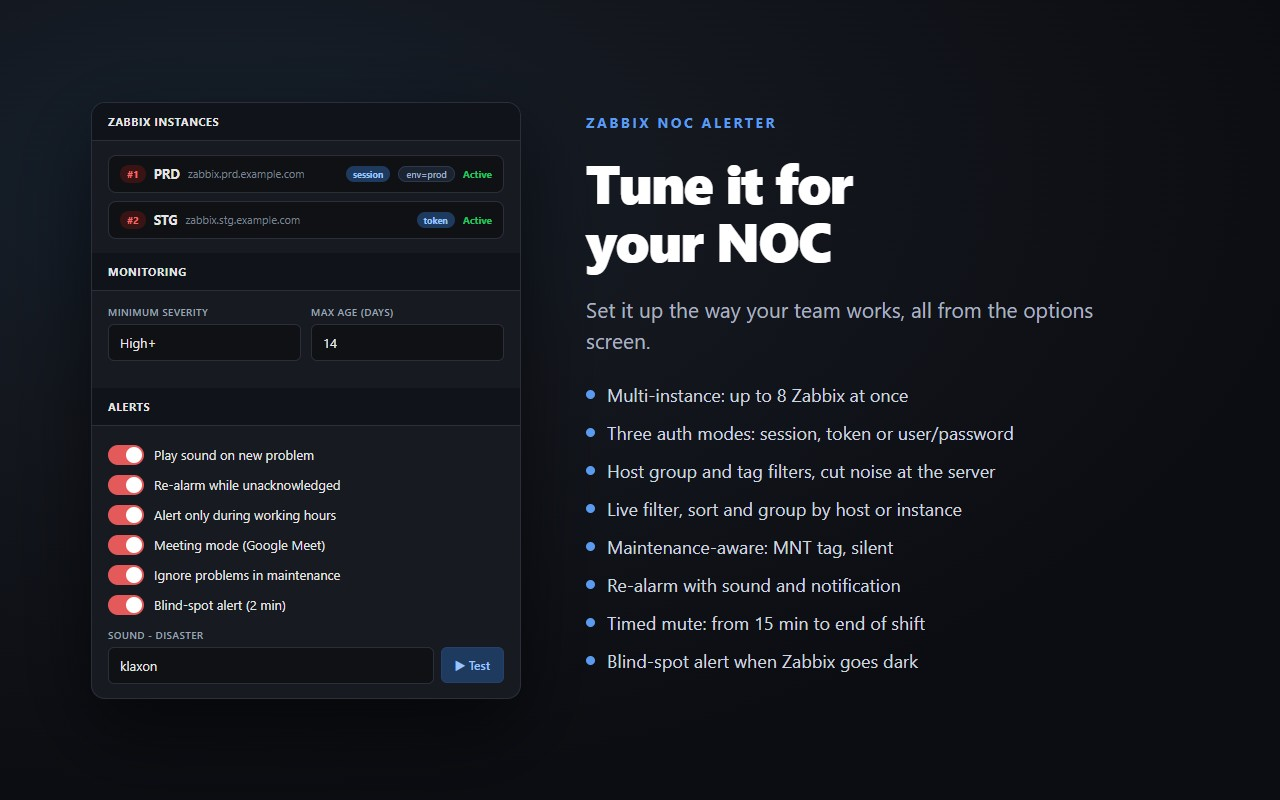
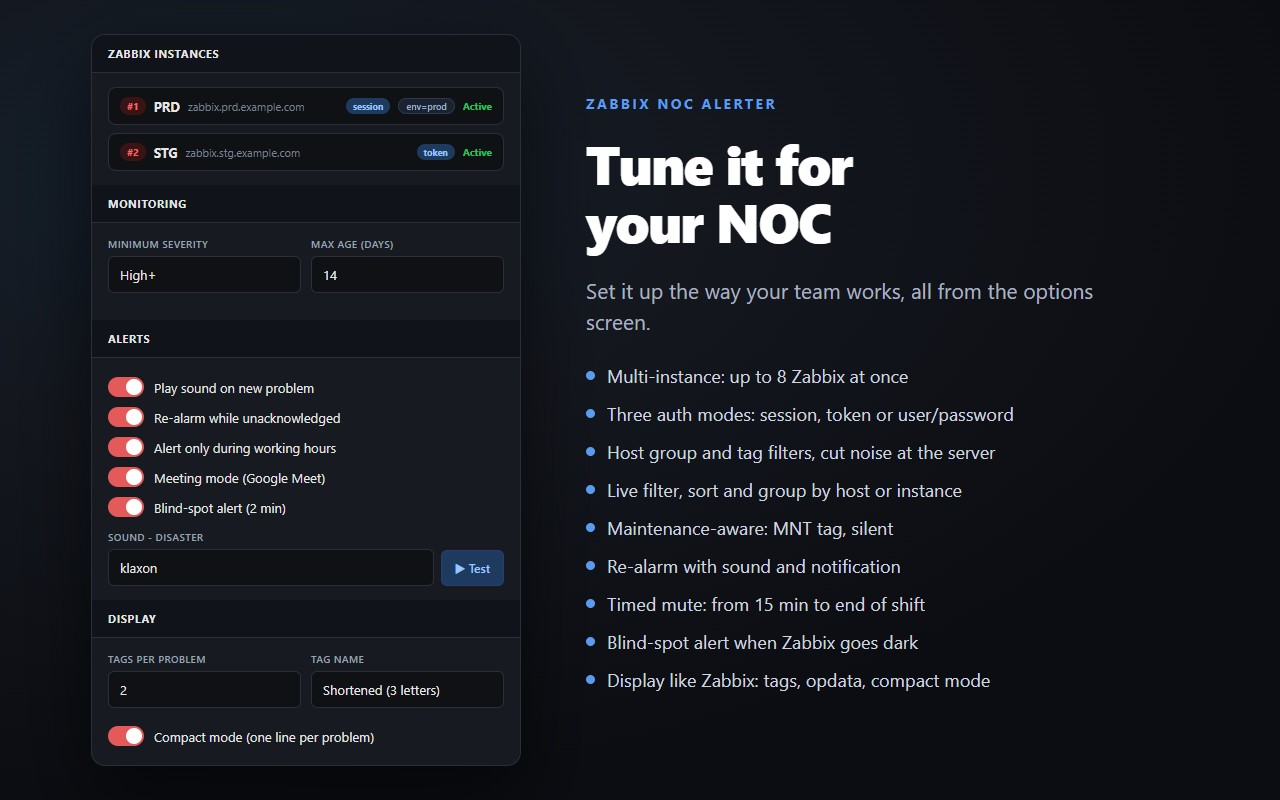
docs: slide 3 das screenshots com a secao Exibicao
Card de opcoes ganha a secao Exibicao (tags por problema, nome da tag,
modo compacto) e a lista ganha o item "Exibicao como no Zabbix". O
toggle de manutencao sai do card para caber em 1280x800; a manutencao
segue na lista.

diff --git a/screenshots/es/screenshot-3.html b/screenshots/es/screenshot-3.html
@@ -45,10 +45,17 @@
         <div class="tr"><span class="tg on"></span>Re-alarmar mientras no se reconoce</div>
         <div class="tr"><span class="tg on"></span>Alertar solo en horario laboral</div>
         <div class="tr"><span class="tg on"></span>Modo reunión (Google Meet)</div>
-        <div class="tr"><span class="tg on"></span>Ignorar problemas en mantenimiento</div>
         <div class="tr"><span class="tg on"></span>Alerta de punto ciego (2 min)</div>
         <div class="f" style="margin-top:8px;"><label>Sonido - Desastre</label>
           <div class="sound"><span class="inp">klaxon</span><span class="mini">&#x25b6; Probar</span></div></div>
+      </div>
+      <h3>Visualización</h3>
+      <div class="b">
+        <div class="row2">
+          <div class="f"><label>Etiquetas por problema</label><span class="inp">2</span></div>
+          <div class="f"><label>Nombre de la etiqueta</label><span class="inp">Abreviado (3 letras)</span></div>
+        </div>
+        <div class="tr"><span class="tg on"></span>Modo compacto (una línea por problema)</div>
       </div>
     </div>
   </div>
@@ -64,6 +71,7 @@
     <div class="feat"><span class="dot"></span>Re-alarma con sonido y notificación</div>
     <div class="feat"><span class="dot"></span>Silencio temporal: de 15 min hasta el fin del turno</div>
     <div class="feat"><span class="dot"></span>Alerta de punto ciego cuando Zabbix desaparece</div>
+    <div class="feat"><span class="dot"></span>Visualización como en Zabbix: etiquetas, opdata, modo compacto</div>
   </div>
 </div>
 </body></html>

diff --git a/screenshots/pt/screenshot-3.html b/screenshots/pt/screenshot-3.html
@@ -45,10 +45,17 @@
         <div class="tr"><span class="tg on"></span>Re-alarmar enquanto não reconhecido</div>
         <div class="tr"><span class="tg on"></span>Alertar só no horário de trabalho</div>
         <div class="tr"><span class="tg on"></span>Modo reunião (Google Meet)</div>
-        <div class="tr"><span class="tg on"></span>Ignorar problemas em manutenção</div>
         <div class="tr"><span class="tg on"></span>Alerta de ponto cego (2 min)</div>
         <div class="f" style="margin-top:8px;"><label>Som - Desastre</label>
           <div class="sound"><span class="inp">klaxon</span><span class="mini">&#x25b6; Testar</span></div></div>
+      </div>
+      <h3>Exibição</h3>
+      <div class="b">
+        <div class="row2">
+          <div class="f"><label>Tags por problema</label><span class="inp">2</span></div>
+          <div class="f"><label>Nome da tag</label><span class="inp">Abreviado (3 letras)</span></div>
+        </div>
+        <div class="tr"><span class="tg on"></span>Modo compacto (uma linha por problema)</div>
       </div>
     </div>
   </div>
@@ -64,6 +71,7 @@
     <div class="feat"><span class="dot"></span>Re-alarme com som e notificação</div>
     <div class="feat"><span class="dot"></span>Mudo com tempo: de 15 min até o fim do turno</div>
     <div class="feat"><span class="dot"></span>Alerta de ponto cego quando o Zabbix some</div>
+    <div class="feat"><span class="dot"></span>Exibição como no Zabbix: tags, opdata, modo compacto</div>
   </div>
 </div>
 </body></html>

diff --git a/screenshots/en/screenshot-3.html b/screenshots/en/screenshot-3.html
@@ -45,10 +45,17 @@
         <div class="tr"><span class="tg on"></span>Re-alarm while unacknowledged</div>
         <div class="tr"><span class="tg on"></span>Alert only during working hours</div>
         <div class="tr"><span class="tg on"></span>Meeting mode (Google Meet)</div>
-        <div class="tr"><span class="tg on"></span>Ignore problems in maintenance</div>
         <div class="tr"><span class="tg on"></span>Blind-spot alert (2 min)</div>
         <div class="f" style="margin-top:8px;"><label>Sound - Disaster</label>
           <div class="sound"><span class="inp">klaxon</span><span class="mini">&#x25b6; Test</span></div></div>
+      </div>
+      <h3>Display</h3>
+      <div class="b">
+        <div class="row2">
+          <div class="f"><label>Tags per problem</label><span class="inp">2</span></div>
+          <div class="f"><label>Tag name</label><span class="inp">Shortened (3 letters)</span></div>
+        </div>
+        <div class="tr"><span class="tg on"></span>Compact mode (one line per problem)</div>
       </div>
     </div>
   </div>
@@ -64,6 +71,7 @@
     <div class="feat"><span class="dot"></span>Re-alarm with sound and notification</div>
     <div class="feat"><span class="dot"></span>Timed mute: from 15 min to end of shift</div>
     <div class="feat"><span class="dot"></span>Blind-spot alert when Zabbix goes dark</div>
+    <div class="feat"><span class="dot"></span>Display like Zabbix: tags, opdata, compact mode</div>
   </div>
 </div>
 </body></html>
